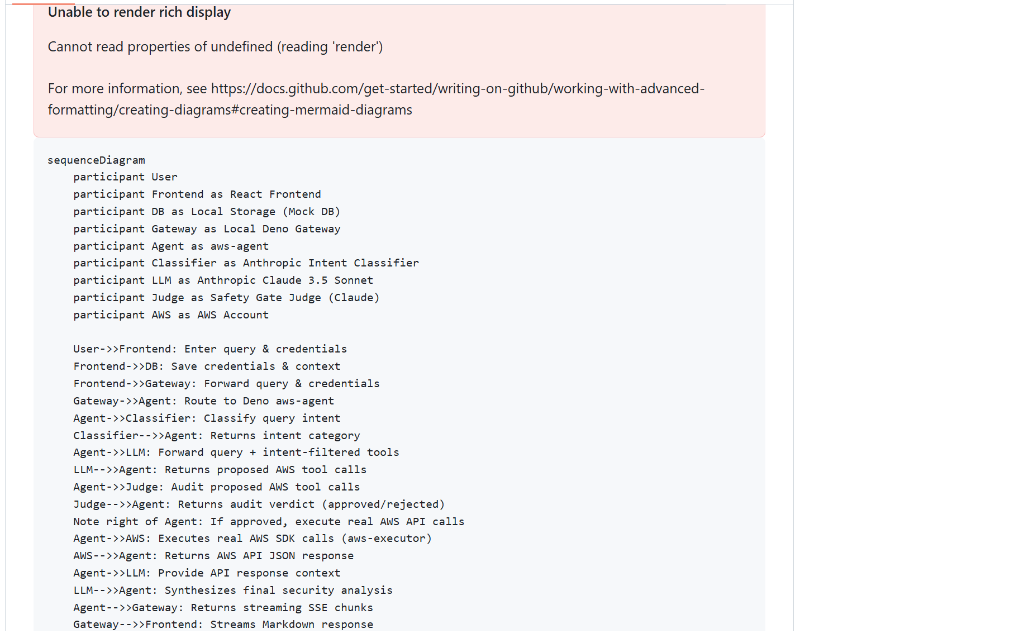
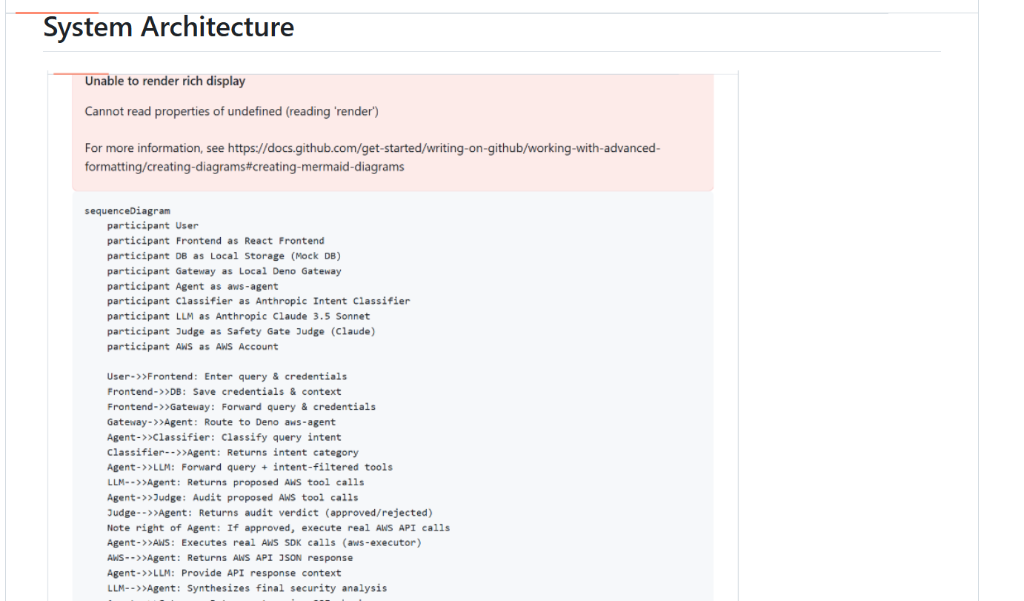
docs: replace architecture diagram in README.md with clean vertical flowchart

Changed region(s): [[0.0312, 0.2396, 0.6562, 1.0], [0.0, 0.0, 0.75, 0.0899], [0.0312, 0.1198, 0.6875, 0.2097]]

diff --git a/README.md b/README.md
@@ -14,7 +14,7 @@ Real-time AWS security operations. Connect your credentials to audit, investigat
 
 ## System Architecture
 
-![CloudPilot AI — Simplified Architecture](https://i.imgur.com/h5ysf9w.png)
+![CloudPilot AI — Simplified Architecture](docs/images/cloudpilot_architecture.png)
 <div align="center">
   <em>Figure 1: CloudPilot AI System Architecture and Request Flow</em>
 </div>